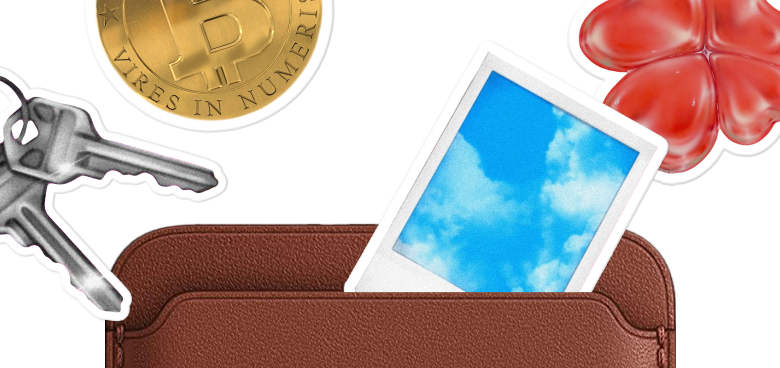
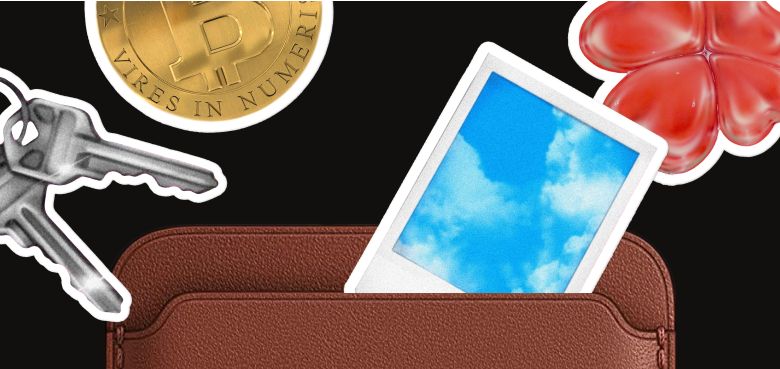
fix(mobile): match "add wallet" sheet to design
- Use correct size image with baked in background
- Use vertical ellipsis icon
- Adjust the spacing

diff --git a/apps/mobile/src/features/wallet-manager/add-wallet/add-wallet-sheet.layout.tsx b/apps/mobile/src/features/wallet-manager/add-wallet/add-wallet-sheet.layout.tsx
@@ -11,7 +11,6 @@ import { useWaitlistFlag } from '@/features/feature-flags';
 import { WaitlistIds } from '@/features/waitlist/ids';
 import { AppRoutes } from '@/routes';
 import { TestId } from '@/shared/test-id';
-import { useSettings } from '@/store/settings/settings';
 import { t } from '@lingui/macro';
 import { Image } from 'expo-image';
 import { useRouter } from 'expo-router';
@@ -20,7 +19,7 @@ import {
   ArrowRotateClockwiseIcon,
   Box,
   CLOSED_ANIMATED_SHARED_VALUE,
-  EllipsisHIcon,
+  EllipsisVIcon,
   EmailIcon,
   Eye2Icon,
   PaletteIcon,
@@ -59,7 +58,6 @@ export function AddWalletSheetLayout({
   const animatedIndex = useSharedValue<number>(CLOSED_ANIMATED_SHARED_VALUE);
   const router = useRouter();
   const releaseWaitlistFeatures = useWaitlistFlag();
-  const { whenTheme } = useSettings();
 
   function openOptions() {
     setMoreOptionsVisible(!moreOptionsVisible);
@@ -81,14 +79,7 @@ export function AddWalletSheetLayout({
       }}
     >
       <AnimatedBox style={animatedStyle}>
-        <Box
-          width="100%"
-          style={{ height: 200, overflow: 'hidden' }}
-          bg={whenTheme({
-            dark: 'ink.background-secondary' as const,
-            light: 'ink.text-primary' as const,
-          })}
-        >
+        <Box width="100%" style={{ height: 184, overflow: 'hidden' }}>
           <Image
             style={{ height: '100%' }}
             contentFit="cover"
@@ -96,7 +87,7 @@ export function AddWalletSheetLayout({
           />
         </Box>
         <Box>
-          <Box p="5">
+          <Box px="5" py="4">
             <Text variant="heading03">
               {t({
                 id: 'add_wallet.header_title',
@@ -138,7 +129,7 @@ export function AddWalletSheetLayout({
                   id: 'add_wallet.options.cell_title',
                   message: 'More options',
                 })}
-                icon={moreOptionsVisible ? undefined : <EllipsisHIcon />}
+                icon={moreOptionsVisible ? undefined : <EllipsisVIcon />}
               />
             )}
             {moreOptionsVisible && releaseWaitlistFeatures && (
